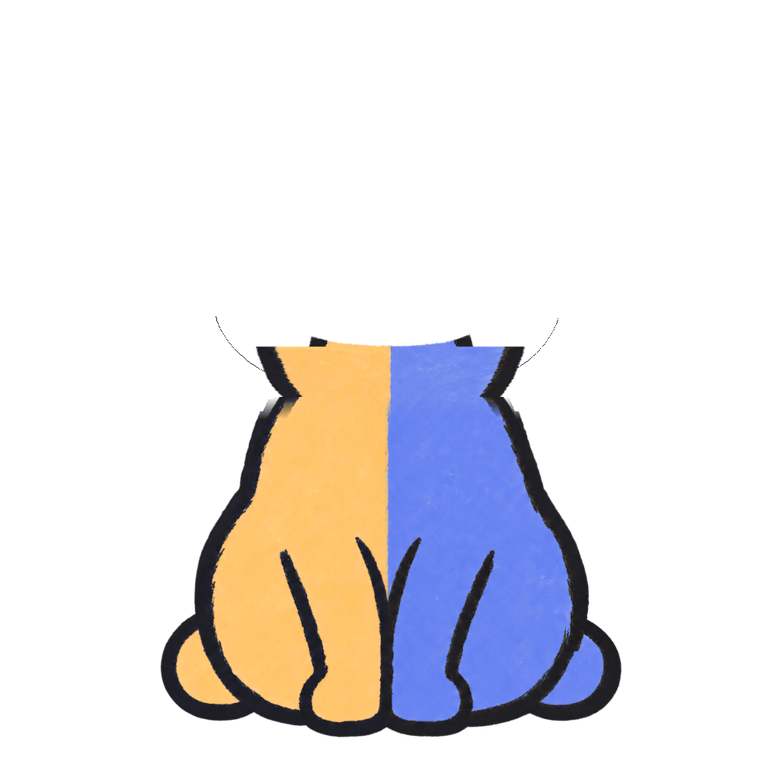
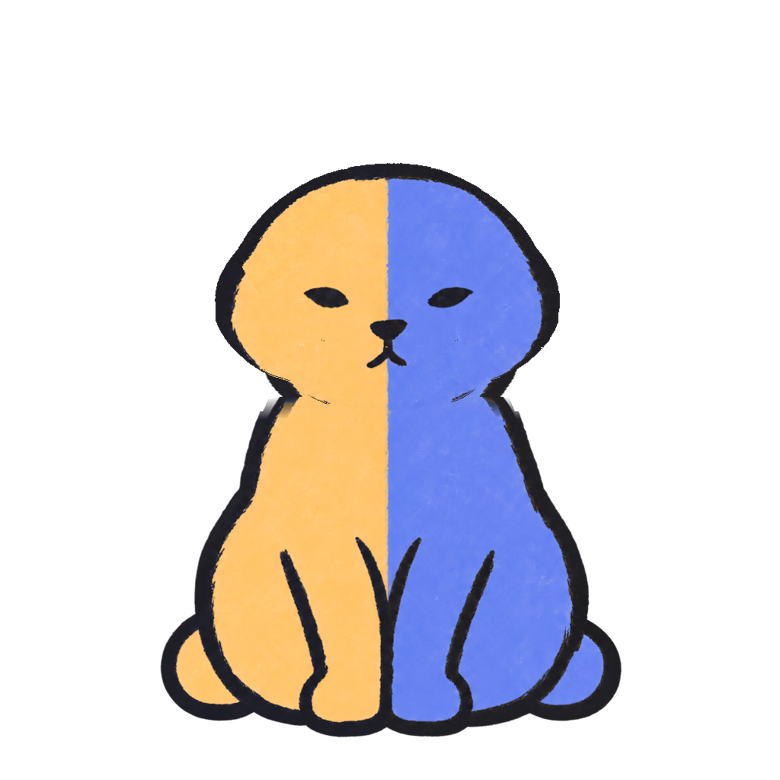
fix(pet): back the head with solid body colour; scan every shipped size
Review of #144: pixel fills at 1024 don't survive scaling and the rounded
head drop -- @3x still had 33 trapped see-through pixels along the cheeks.
The body layer is now opaque under the head's footprint for drops 22-26,
painted with the colour the head shows, so rounding always lands on solid
colour. Only the head is backed; the ears rotate and a static copy would
peek out. Adds scripts/check_cat_layers.py, which stacks the layers as
SharedPet does at 1024 and @1x/@2x/@3x with their rounded drops and fails
on any trapped hole: 0 at every size. CLAUDE.md and the testing log
corrected.

Claude-Session: https://claude.ai/code/session_012EzchSAnQHcjqHSd5QfHXD

Changed region(s): [[0.2769, 0.1846, 0.7385, 0.5231], [0.5846, 0.4923, 0.6154, 0.5231]]

diff --git a/scripts/check_cat_layers.py b/scripts/check_cat_layers.py
@@ -1,0 +1,76 @@
+"""Scan the layered cat for see-through pixels trapped inside its outline.
+
+Stacks the layers exactly as src/components/SharedPet.tsx does -- head, ears
+and eyes lowered by 24/1024 of the canvas, rounded to a device pixel -- at
+the sizes the app ships (@1x/@2x/@3x runtime files) and at the 1024 source,
+then flood-fills from outside. Anything below ALPHA that the fill can't
+reach is a hole the Home background would show through.
+
+    python3 scripts/check_cat_layers.py        # needs Pillow
+
+Exits non-zero if any hole is found. Checking only the 1024 source is not
+enough: shrinking blends edges and the rounded drop shifts the head's
+outline relative to the body's, which is how @3x kept holes the source
+didn't have.
+"""
+import sys
+from collections import deque
+from pathlib import Path
+
+from PIL import Image
+
+CAT = Path(__file__).resolve().parent.parent / 'assets' / 'cat'
+ALPHA = 200
+HEAD_GROUP = ['ear-left', 'ear-right', 'head', 'eyes-open']
+
+
+def composite(files, drop):
+    base = Image.open(files('tail')).convert('RGBA')
+    out = Image.new('RGBA', base.size, (0, 0, 0, 0))
+    out.alpha_composite(base)
+    out.alpha_composite(Image.open(files('body')).convert('RGBA'))
+    for name in HEAD_GROUP:
+        out.alpha_composite(Image.open(files(name)).convert('RGBA'), (0, drop))
+    return out
+
+
+def trapped(img):
+    w, h = img.size
+    a = img.getchannel('A').load()
+    seen = bytearray(w * h)
+    q = deque()
+    for x in range(w):
+        q.extend([(x, 0), (x, h - 1)])
+    for y in range(h):
+        q.extend([(0, y), (w - 1, y)])
+    while q:
+        x, y = q.popleft()
+        if not (0 <= x < w and 0 <= y < h):
+            continue
+        i = y * w + x
+        if seen[i] or a[x, y] >= ALPHA:
+            continue
+        seen[i] = 1
+        q.extend([(x - 1, y), (x + 1, y), (x, y - 1), (x, y + 1)])
+    return [(x, y) for y in range(h) for x in range(w)
+            if a[x, y] < ALPHA and not seen[y * w + x]]
+
+
+def main():
+    bad = 0
+    checks = [('source 1024', lambda n: CAT / f'cat-{n}.png', 24)]
+    # SharedPet renders at up to 260pt: drop = round(260*24/1024) pt, in px.
+    for suffix, scale in [('', 1), ('@2x', 2), ('@3x', 3)]:
+        drop = round(260 * 24 / 1024) * scale
+        checks.append((f'runtime{suffix or "@1x"}',
+                       lambda n, s=suffix: CAT / 'runtime' / f'cat-{n}{s}.png',
+                       drop))
+    for label, files, drop in checks:
+        holes = trapped(composite(files, drop))
+        bad += len(holes)
+        print(f'{label:14} drop={drop:3}px  trapped<{ALPHA}: {len(holes)}')
+    sys.exit(1 if bad else 0)
+
+
+if __name__ == '__main__':
+    main()

diff --git a/CLAUDE.md b/CLAUDE.md
@@ -540,10 +540,17 @@ to a device pixel; in `SharedPet`'s pivots) lower than the art, set in code
 rather than by moving pixels, and `cat-assembled-reference.png` is composited
 with that drop; the body's neck
 reaches up behind the head with its outline wrapped around the cheeks, so
-the drop hides the neck seam instead of opening a gap (2026-09-25). 126
-see-through pinhole pixels along the inside of the cheek outlines were then
-filled on the body layer with the nearest solid colour, found by a flood
-fill of the composite from outside. Every layer
+the drop hides the neck seam instead of opening a gap (2026-09-25). Pixel
+patches at 1024 didn't hold: the app scales the art and rounds the drop
+(18px at @3x is 23.6 source px, not 24), so @3x kept see-through pinholes
+along the cheek outlines that the source didn't have. The body layer is now
+**opaque under the head's footprint** (for drops 22–26), painted with the
+colour the head shows there, so any rounding lands on solid colour. Only the
+head is backed, not the ears — they rotate, and a static copy would peek out
+mid-twitch. `python3 scripts/check_cat_layers.py` (needs Pillow) stacks the
+layers exactly as `SharedPet` does at 1024 and at the shipped @1x/@2x/@3x
+with their rounded drops, flood-fills from outside, and exits non-zero on
+any trapped see-through pixel: run it after any cat art change. Every layer
 shares one square coordinate system, so it must stay absolute-fill and must
 not be independently cropped or positioned — except as a group: head, ears
 and eyes move together by `headDrop` (below), and layers inside a group move

diff --git a/docs/testing-log.md b/docs/testing-log.md
@@ -2343,4 +2343,10 @@ remaining, and the reference image was regenerated with the head drop.
 fully transparent enclosed pixels, 2 mostly transparent (alpha < 200) at the
 cheek corners, and ~290 slightly translucent ones spread across the cat,
 which are brush grain rather than gaps. The 2 were filled the same way;
-0 remain at alpha < 200.
+0 remain at alpha < 200. **Correction, from code review:** that was only checked at
+the 1024 source. At @3x the rounded drop (18px = 23.6 source px) still left
+33 trapped see-through pixels along both cheeks. Fixed structurally instead:
+the body is opaque under the head's footprint (drops 22–26, head only, not
+the rotating ears), coloured as the head shows it. `scripts/check_cat_layers.py`
+now scans source + @1x/@2x/@3x with rounded drops: 0 at every size. At rest
+138 pixels visibly change (the former gaps); with ears twitched 9°, 6 more.
